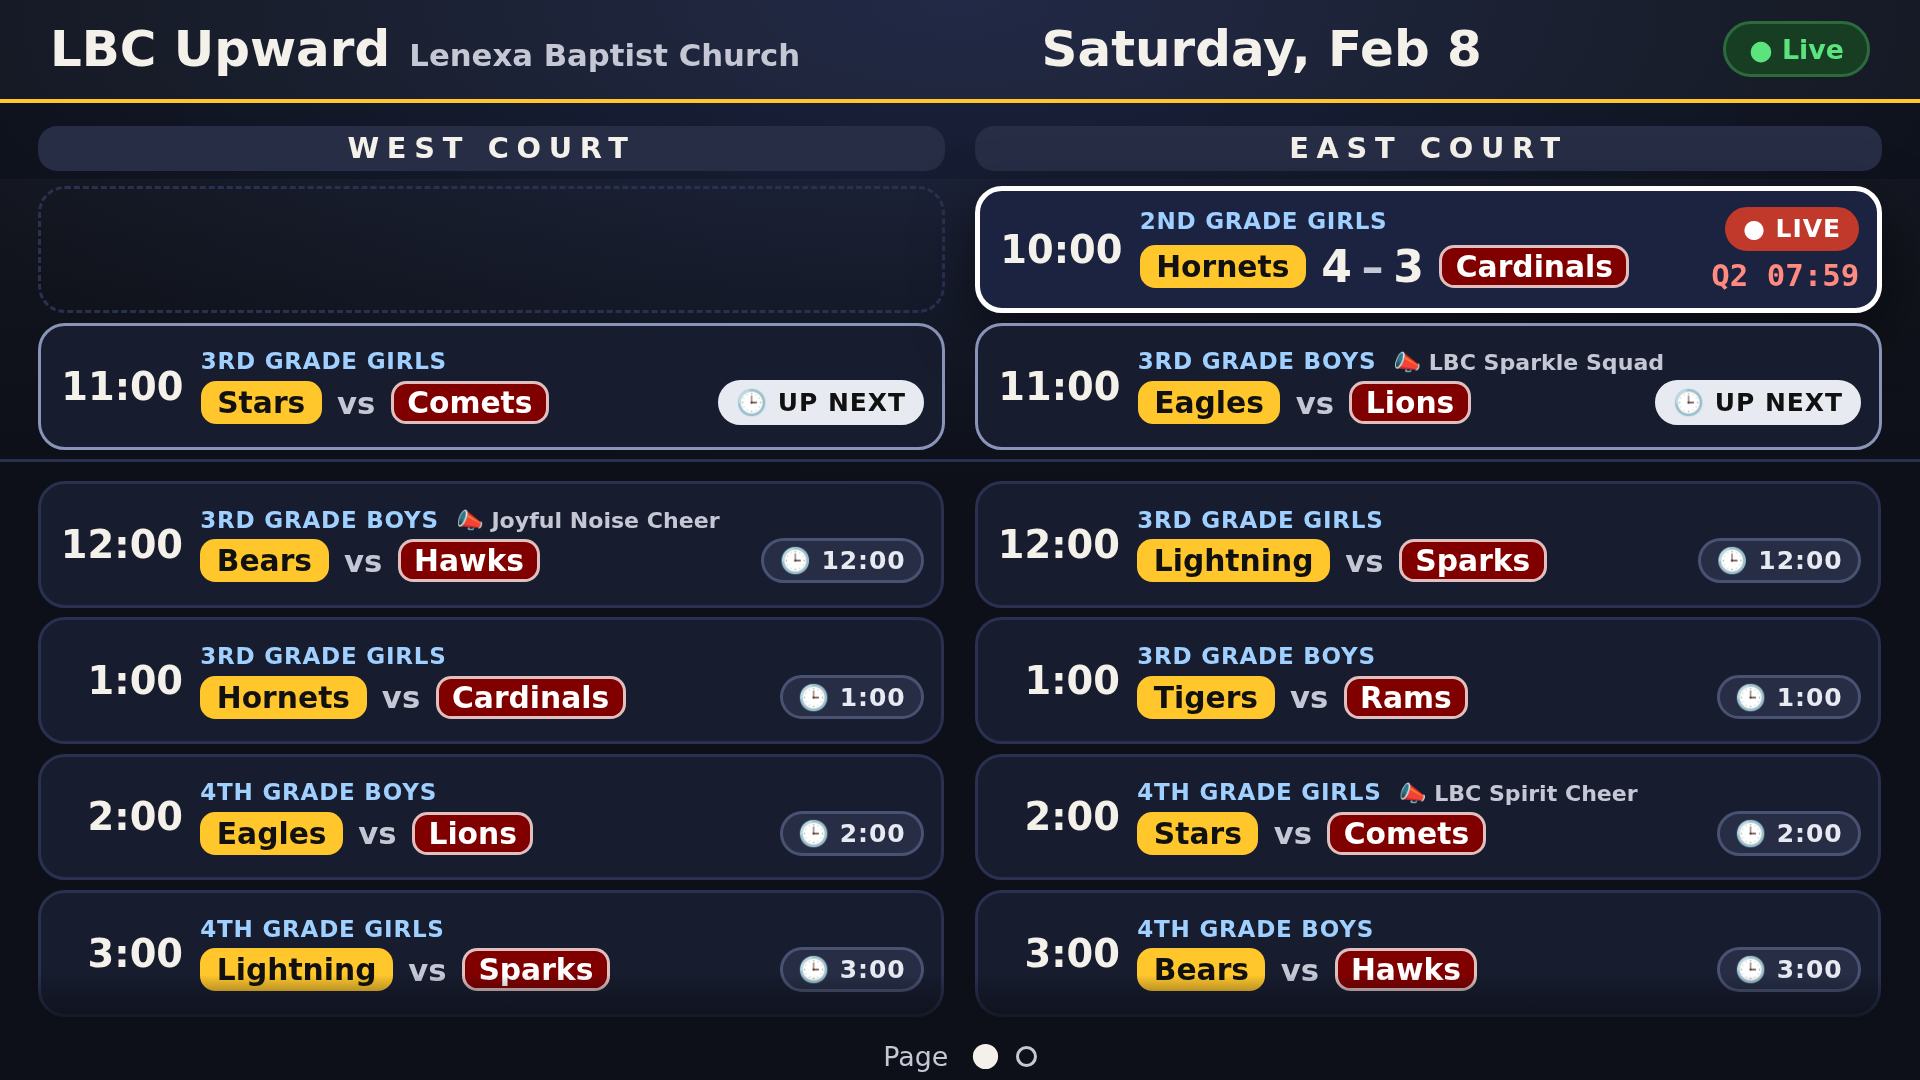
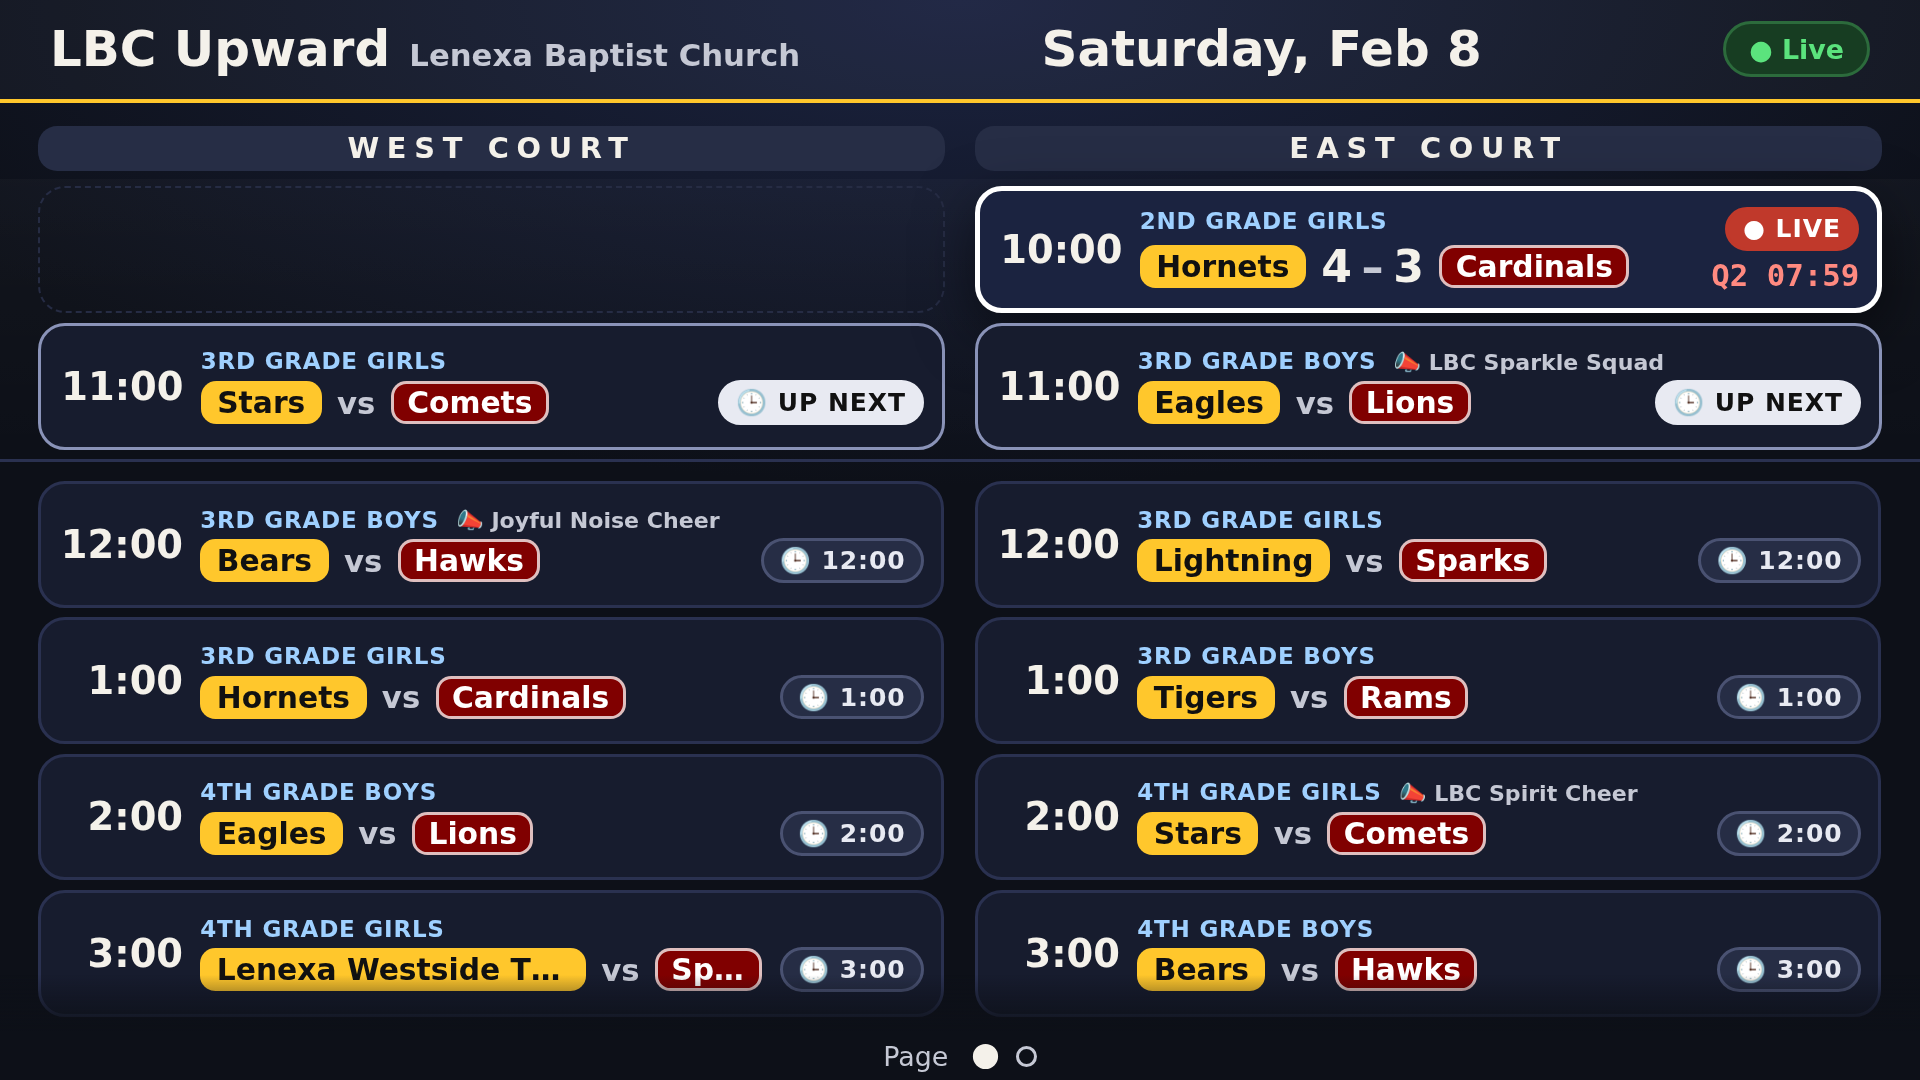
Schedule compact finals: full team name when it fits, else the team's existing short name (data-short); re-measured on resize/updates; e2e with a long-named team

Changed region(s): [[0.125, 0.8556, 0.4062, 0.9167]]

diff --git a/public/schedule.js b/public/schedule.js
@@ -37,7 +37,10 @@ function gameEl(g, isNext, compact) {
   setText(el, 'grade-label', g.label || g.grade || '');
   setText(el, 'home-name', g.home.name); setText(el, 'away-name', g.away.name);
   // Full name on hover/inspection (compact finals can cut long names off with an ellipsis).
-  el.querySelector('[data-bind="home-name"]').title = g.home.name || ''; el.querySelector('[data-bind="away-name"]').title = g.away.name || '';
+  for (const side of ['home', 'away']) { // full name kept for the title and for fitNames(); short = the team's short_name
+    const n = el.querySelector(`[data-bind="${side}-name"]`); n.title = g[side].name || '';
+    n.dataset.full = g[side].name || ''; n.dataset.shortName = g[side].short || '';
+  }
   if (state === 'upcoming') { const sc = el.querySelector('.score'); sc.className = 'score vs'; sc.textContent = 'vs'; }
   else { setText(el, 'home-score', hs); setText(el, 'away-score', as); }
   // Cheer squads: omit the .cheer div when there's none.
@@ -127,6 +130,18 @@ function layout() {
     rows--;
   }
   page();
+  fitNames();
+}
+
+/**
+ * Compact finals: full team name when it fits, else the team's existing short name (teams.short_name, the same `short`
+ * the TV/overlay get; server falls back to the first 3 letters). data-short="true" marks a swapped bind.
+ */
+function fitNames() {
+  for (const n of document.querySelectorAll('.game[data-compact] .chip[data-full]')) {
+    n.textContent = n.dataset.full; delete n.dataset.short;
+    if (n.scrollWidth > n.clientWidth + 0.5 && n.dataset.shortName) { n.textContent = n.dataset.shortName; n.dataset.short = 'true'; }
+  }
 }
 
 /**

diff --git a/deliverables/UpwardScoreboard-POC.md b/deliverables/UpwardScoreboard-POC.md
@@ -280,9 +280,9 @@ Paging scenes (browser e2e, 1920x1080, scripts/schedule-paging-e2e.mjs):
 
 **Tests (2026-10, freshly rebuilt container):** unit 23/23 (gender, demo weekend, seed invariants, warnings, home-first markup/templates); smoke 169/169 run twice on the same used database (gender, warnings incl. legacy two-cheer CSV, schedule routes, snapshot, live updates on swap/start/score/complete, read-only, home first); browser flow 19/19, lockout 8/8, offline 11/11; latency median 8.7 ms, p95 10.7 ms. The cheer migration was verified on the box's old data (3 games moved, 2 with both sides set kept home and were logged).
 
-**Tests (paging rule, 2026-10-16):** unit 31/31 (adds phase, pinned row alignment, pinned selection, ordering, aligned blocks, finals collapse, page breaks); schedule paging browser e2e 32/32 (3 runs) at 1920x1080 (early, mid-day incl. page 2, end: live + next in .sched-pinned, fully visible, unmoved across a page turn, pinned rows aligned by time (same time = same top, different times = different rows), name titles, order, compact finals inside the last page, ≥1 compact final mid-day, dots only on overflow); smoke 173/173; flow 19/19, lockout 8/8, offline 11/11.
+**Tests (paging rule, 2026-10-16):** unit 31/31 (adds phase, pinned row alignment, pinned selection, ordering, aligned blocks, finals collapse, page breaks); schedule paging browser e2e 36/36 (3 runs; incl. a 30-char team name falling back to its short name in a compact final, re-measured on resize) at 1920x1080 (early, mid-day incl. page 2, end: live + next in .sched-pinned, fully visible, unmoved across a page turn, pinned rows aligned by time (same time = same top, different times = different rows), name titles, order, compact finals inside the last page, ≥1 compact final mid-day, dots only on overflow); smoke 173/173; flow 19/19, lockout 8/8, offline 11/11.
 
-**Hooks for Sage** (functional markup only; schedule.css is a minimal placeholder for Sage to replace). Structure matches docs/mockups/schedule-structure.md: root `data-conn` (connecting|online|offline), `data-day` (fri|sat|…), `data-date`, `data-page` (0-based), `data-pages`, `--offset` (and `--page`) in px, class `overflows`, `has-active`; `.sched-track` also gets `--offset` + `data-page`; `.heads` hidden when the day has no split games; `.sched-pinned` (live + UP NEXT, outside `.sched-view`, never translated; rows aligned by time across West/East like the track: one `.slot[data-time]` per time in each `.court-col`, `data-empty` where a court has no pinned game at that time; Full Court rows full-width), `.sched-track` = later upcoming then finals (only it pages; `data-offsets` lists the page tops in px), `.game[data-compact=true]` on finals shown in the leftover space, `.earlier` (inside the track, just above the shown finals) text "▲ N earlier finals" (empty when none), root `data-phase` (early|midday|end; absent with no games); `.foot` gets one `<i>` per page (`.on` = current), empty with one page. Per game: `.court-col[data-court=west|east] > .slot[data-time]` (empty slot keeps rows aligned: `data-empty`), `.full-row > .slot > .game[data-span=full]`, `.game[data-state=complete|active|upcoming]`, `[data-winner=home|away|tie]` on complete, `[data-next=true]` on each court's next game, `[data-swapped]`, `[data-court]`, `[data-game-id]`, class `has-cheer`; chips `.chip.home` / `.chip.away` (with `title` = full team name) with `data-wear=light|dark` and `--team-color` / `--team-accent` (colors only); `.score` for active/complete, `.score.vs` for upcoming; `.pc` (period + clock) only on active; `.cheer` (img `cheer-logo` + `cheer-name`) only with a squad. data-binds: time, grade-label, home-name, away-name, home-score, away-score, cheer, cheer-logo, period, clock, status-tag, brand, church-name, day, connText, earlier. TV: one `.cheer` in `section.center` after `.poss` (binds cheer / cheer-logo, root `has-cheer`); per-side cheer binds retired. Admin: new Gender select (Teams form), Gender column, `#schedule-warnings` box, `.warn-tag` and `tr.has-warning` in game rows, single cheer fieldset (unstyled additions).
+**Hooks for Sage** (functional markup only; schedule.css is a minimal placeholder for Sage to replace). Structure matches docs/mockups/schedule-structure.md: root `data-conn` (connecting|online|offline), `data-day` (fri|sat|…), `data-date`, `data-page` (0-based), `data-pages`, `--offset` (and `--page`) in px, class `overflows`, `has-active`; `.sched-track` also gets `--offset` + `data-page`; `.heads` hidden when the day has no split games; `.sched-pinned` (live + UP NEXT, outside `.sched-view`, never translated; rows aligned by time across West/East like the track: one `.slot[data-time]` per time in each `.court-col`, `data-empty` where a court has no pinned game at that time; Full Court rows full-width), `.sched-track` = later upcoming then finals (only it pages; `data-offsets` lists the page tops in px), `.game[data-compact=true]` on finals shown in the leftover space, `.earlier` (inside the track, just above the shown finals) text "▲ N earlier finals" (empty when none), root `data-phase` (early|midday|end; absent with no games); `.foot` gets one `<i>` per page (`.on` = current), empty with one page. Per game: `.court-col[data-court=west|east] > .slot[data-time]` (empty slot keeps rows aligned: `data-empty`), `.full-row > .slot > .game[data-span=full]`, `.game[data-state=complete|active|upcoming]`, `[data-winner=home|away|tie]` on complete, `[data-next=true]` on each court's next game, `[data-swapped]`, `[data-court]`, `[data-game-id]`, class `has-cheer`; chips `.chip.home` / `.chip.away` (with `title` = full team name; in compact finals the full name is used when it fits, else the team's existing short name (teams.short_name, payload `short`), marked `data-short="true"`, re-measured on resize and every update) with `data-wear=light|dark` and `--team-color` / `--team-accent` (colors only); `.score` for active/complete, `.score.vs` for upcoming; `.pc` (period + clock) only on active; `.cheer` (img `cheer-logo` + `cheer-name`) only with a squad. data-binds: time, grade-label, home-name, away-name, home-score, away-score, cheer, cheer-logo, period, clock, status-tag, brand, church-name, day, connText, earlier. TV: one `.cheer` in `section.center` after `.poss` (binds cheer / cheer-logo, root `has-cheer`); per-side cheer binds retired. Admin: new Gender select (Teams form), Gender column, `#schedule-warnings` box, `.warn-tag` and `tr.has-warning` in game rows, single cheer fieldset (unstyled additions).
 
 ## 4. Architecture and stack rationale
 
